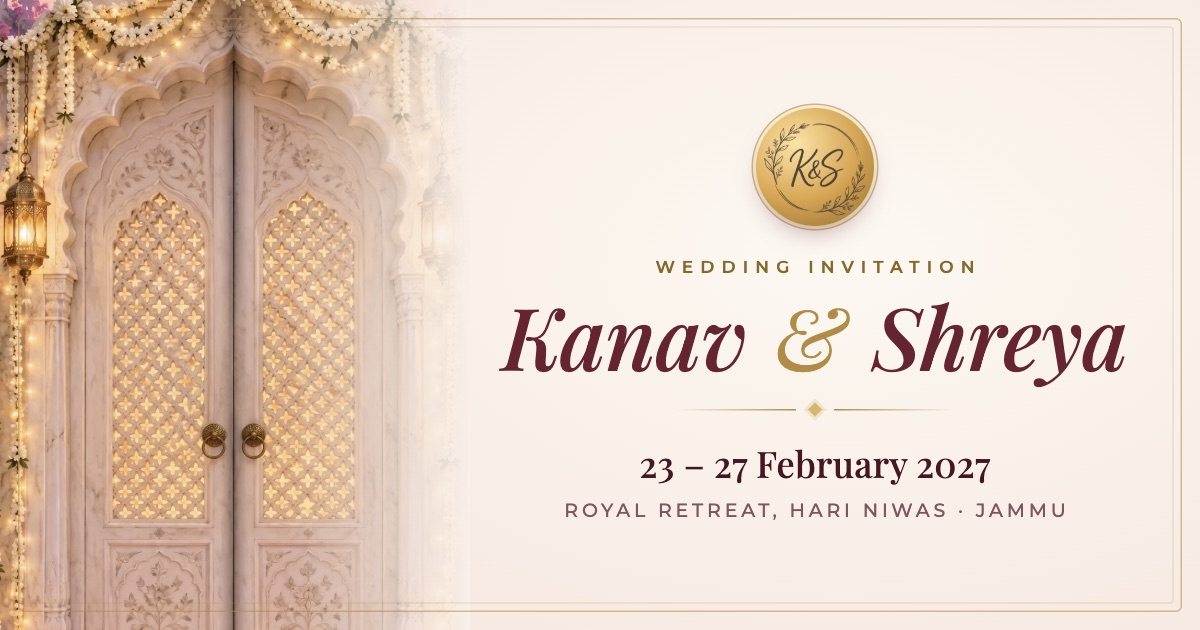
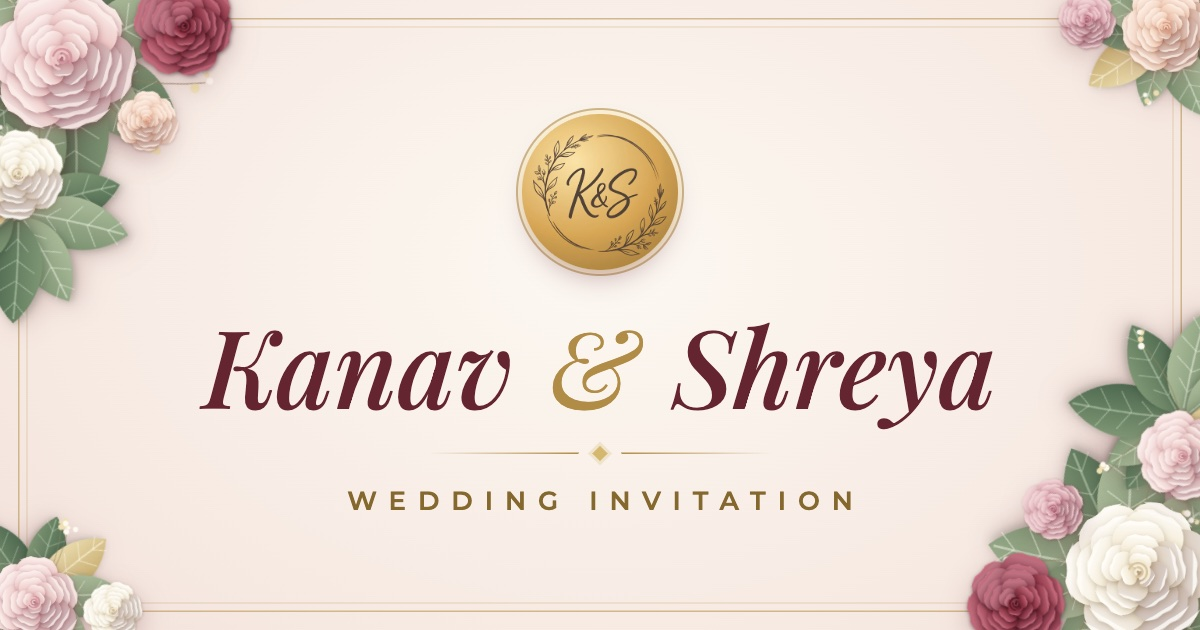
feat: floral share preview with seal and names only

diff --git a/kanav-shreya-ecards/shreyawedss/index.html b/kanav-shreya-ecards/shreyawedss/index.html
@@ -18,19 +18,19 @@
 <meta property="og:url" content="https://shreyawedss.kanavchopra.com/">
 <meta property="og:title" content="Kanav &amp; Shreya · Wedding Invitation">
 <meta property="og:description" content="Mata Ki Chowki, Shagun, Sufi Night &amp; Cocktail, Saant, Sehra Bandi and the Baraat &amp; Reception · 23–27 February 2027, Jammu. Tap to open your invitation.">
-<meta property="og:image" content="https://shreyawedss.kanavchopra.com/og.jpg">
-<meta property="og:image:secure_url" content="https://shreyawedss.kanavchopra.com/og.jpg">
+<meta property="og:image" content="https://shreyawedss.kanavchopra.com/og.jpg?v=3">
+<meta property="og:image:secure_url" content="https://shreyawedss.kanavchopra.com/og.jpg?v=3">
 <meta property="og:image:type" content="image/jpeg">
 <meta property="og:image:width" content="1200">
 <meta property="og:image:height" content="630">
-<meta property="og:image:alt" content="Kanav &amp; Shreya wedding invitation: carved palace doors and a gold K&amp;S seal, 23–27 February 2027, Royal Retreat, Hari Niwas, Jammu">
+<meta property="og:image:alt" content="Gold K&amp;S seal above the words Kanav &amp; Shreya, Wedding Invitation, framed by roses in each corner">
 <meta name="twitter:card" content="summary_large_image">
 <meta name="twitter:title" content="Kanav &amp; Shreya · Wedding Invitation">
 <meta name="twitter:description" content="Mata Ki Chowki, Shagun, Sufi Night &amp; Cocktail, Saant, Sehra Bandi and the Baraat &amp; Reception · 23–27 February 2027, Jammu. Tap to open your invitation.">
-<meta name="twitter:image" content="https://shreyawedss.kanavchopra.com/og.jpg">
-<meta name="twitter:image:alt" content="Kanav &amp; Shreya wedding invitation: carved palace doors and a gold K&amp;S seal, 23–27 February 2027, Royal Retreat, Hari Niwas, Jammu">
+<meta name="twitter:image" content="https://shreyawedss.kanavchopra.com/og.jpg?v=3">
+<meta name="twitter:image:alt" content="Gold K&amp;S seal above the words Kanav &amp; Shreya, Wedding Invitation, framed by roses in each corner">
 <script type="application/ld+json">
-{"@context":"https://schema.org","@type":"Event","name":"Wedding of Kanav Chopra & Shreya Gandral","description":"Mata Ki Chowki, Shagun, Sufi Night & Cocktail, Saant, Sehra Bandi and the Baraat & Reception.","startDate":"2027-02-23T17:30:00+05:30","endDate":"2027-02-27","eventStatus":"https://schema.org/EventScheduled","eventAttendanceMode":"https://schema.org/OfflineEventAttendanceMode","isAccessibleForFree":true,"url":"https://shreyawedss.kanavchopra.com/","image":["https://shreyawedss.kanavchopra.com/og.jpg"],"location":{"@type":"Place","name":"Royal Retreat, Hari Niwas","address":{"@type":"PostalAddress","addressLocality":"Jammu","addressRegion":"Jammu and Kashmir","addressCountry":"IN"}},"organizer":[{"@type":"Person","name":"Kanav Chopra"},{"@type":"Person","name":"Shreya Gandral"}]}
+{"@context":"https://schema.org","@type":"Event","name":"Wedding of Kanav Chopra & Shreya Gandral","description":"Mata Ki Chowki, Shagun, Sufi Night & Cocktail, Saant, Sehra Bandi and the Baraat & Reception.","startDate":"2027-02-23T17:30:00+05:30","endDate":"2027-02-27","eventStatus":"https://schema.org/EventScheduled","eventAttendanceMode":"https://schema.org/OfflineEventAttendanceMode","isAccessibleForFree":true,"url":"https://shreyawedss.kanavchopra.com/","image":["https://shreyawedss.kanavchopra.com/og.jpg?v=3"],"location":{"@type":"Place","name":"Royal Retreat, Hari Niwas","address":{"@type":"PostalAddress","addressLocality":"Jammu","addressRegion":"Jammu and Kashmir","addressCountry":"IN"}},"organizer":[{"@type":"Person","name":"Kanav Chopra"},{"@type":"Person","name":"Shreya Gandral"}]}
 </script>
 <script>document.documentElement.className='js lock';</script>
 <style>

diff --git a/kanav-shreya-ecards/shreyaweds/index.html b/kanav-shreya-ecards/shreyaweds/index.html
@@ -18,19 +18,19 @@
 <meta property="og:url" content="https://shreyaweds.kanavchopra.com/">
 <meta property="og:title" content="Kanav &amp; Shreya · Wedding Invitation">
 <meta property="og:description" content="Eight celebrations over five days, 23–27 February 2027, ending with the Baraat &amp; Reception at Royal Retreat, Hari Niwas, Jammu. Tap to open your invitation.">
-<meta property="og:image" content="https://shreyaweds.kanavchopra.com/og.jpg">
-<meta property="og:image:secure_url" content="https://shreyaweds.kanavchopra.com/og.jpg">
+<meta property="og:image" content="https://shreyaweds.kanavchopra.com/og.jpg?v=3">
+<meta property="og:image:secure_url" content="https://shreyaweds.kanavchopra.com/og.jpg?v=3">
 <meta property="og:image:type" content="image/jpeg">
 <meta property="og:image:width" content="1200">
 <meta property="og:image:height" content="630">
-<meta property="og:image:alt" content="Kanav &amp; Shreya wedding invitation: carved palace doors and a gold K&amp;S seal, 23–27 February 2027, Royal Retreat, Hari Niwas, Jammu">
+<meta property="og:image:alt" content="Gold K&amp;S seal above the words Kanav &amp; Shreya, Wedding Invitation, framed by roses in each corner">
 <meta name="twitter:card" content="summary_large_image">
 <meta name="twitter:title" content="Kanav &amp; Shreya · Wedding Invitation">
 <meta name="twitter:description" content="Eight celebrations over five days, 23–27 February 2027, ending with the Baraat &amp; Reception at Royal Retreat, Hari Niwas, Jammu. Tap to open your invitation.">
-<meta name="twitter:image" content="https://shreyaweds.kanavchopra.com/og.jpg">
-<meta name="twitter:image:alt" content="Kanav &amp; Shreya wedding invitation: carved palace doors and a gold K&amp;S seal, 23–27 February 2027, Royal Retreat, Hari Niwas, Jammu">
+<meta name="twitter:image" content="https://shreyaweds.kanavchopra.com/og.jpg?v=3">
+<meta name="twitter:image:alt" content="Gold K&amp;S seal above the words Kanav &amp; Shreya, Wedding Invitation, framed by roses in each corner">
 <script type="application/ld+json">
-{"@context":"https://schema.org","@type":"Event","name":"Wedding of Kanav Chopra & Shreya Gandral","description":"Eight celebrations over five days, from Mata Ki Chowki to the Baraat & Reception.","startDate":"2027-02-23T17:30:00+05:30","endDate":"2027-02-27","eventStatus":"https://schema.org/EventScheduled","eventAttendanceMode":"https://schema.org/OfflineEventAttendanceMode","isAccessibleForFree":true,"url":"https://shreyaweds.kanavchopra.com/","image":["https://shreyaweds.kanavchopra.com/og.jpg"],"location":{"@type":"Place","name":"Royal Retreat, Hari Niwas","address":{"@type":"PostalAddress","addressLocality":"Jammu","addressRegion":"Jammu and Kashmir","addressCountry":"IN"}},"organizer":[{"@type":"Person","name":"Kanav Chopra"},{"@type":"Person","name":"Shreya Gandral"}]}
+{"@context":"https://schema.org","@type":"Event","name":"Wedding of Kanav Chopra & Shreya Gandral","description":"Eight celebrations over five days, from Mata Ki Chowki to the Baraat & Reception.","startDate":"2027-02-23T17:30:00+05:30","endDate":"2027-02-27","eventStatus":"https://schema.org/EventScheduled","eventAttendanceMode":"https://schema.org/OfflineEventAttendanceMode","isAccessibleForFree":true,"url":"https://shreyaweds.kanavchopra.com/","image":["https://shreyaweds.kanavchopra.com/og.jpg?v=3"],"location":{"@type":"Place","name":"Royal Retreat, Hari Niwas","address":{"@type":"PostalAddress","addressLocality":"Jammu","addressRegion":"Jammu and Kashmir","addressCountry":"IN"}},"organizer":[{"@type":"Person","name":"Kanav Chopra"},{"@type":"Person","name":"Shreya Gandral"}]}
 </script>
 <script>document.documentElement.className='js lock';</script>
 <style>

diff --git a/kanav-shreya-ecards/shreyawedsss/index.html b/kanav-shreya-ecards/shreyawedsss/index.html
@@ -18,19 +18,19 @@
 <meta property="og:url" content="https://shreyawedsss.kanavchopra.com/">
 <meta property="og:title" content="Kanav &amp; Shreya · Wedding Invitation">
 <meta property="og:description" content="Mata Ki Chowki, Mehendi &amp; Sangeet, Saant, Sehra Bandi and the Baraat &amp; Reception · 23–27 February 2027, Jammu. Tap to open your invitation.">
-<meta property="og:image" content="https://shreyawedsss.kanavchopra.com/og.jpg">
-<meta property="og:image:secure_url" content="https://shreyawedsss.kanavchopra.com/og.jpg">
+<meta property="og:image" content="https://shreyawedsss.kanavchopra.com/og.jpg?v=3">
+<meta property="og:image:secure_url" content="https://shreyawedsss.kanavchopra.com/og.jpg?v=3">
 <meta property="og:image:type" content="image/jpeg">
 <meta property="og:image:width" content="1200">
 <meta property="og:image:height" content="630">
-<meta property="og:image:alt" content="Kanav &amp; Shreya wedding invitation: carved palace doors and a gold K&amp;S seal, 23–27 February 2027, Royal Retreat, Hari Niwas, Jammu">
+<meta property="og:image:alt" content="Gold K&amp;S seal above the words Kanav &amp; Shreya, Wedding Invitation, framed by roses in each corner">
 <meta name="twitter:card" content="summary_large_image">
 <meta name="twitter:title" content="Kanav &amp; Shreya · Wedding Invitation">
 <meta name="twitter:description" content="Mata Ki Chowki, Mehendi &amp; Sangeet, Saant, Sehra Bandi and the Baraat &amp; Reception · 23–27 February 2027, Jammu. Tap to open your invitation.">
-<meta name="twitter:image" content="https://shreyawedsss.kanavchopra.com/og.jpg">
-<meta name="twitter:image:alt" content="Kanav &amp; Shreya wedding invitation: carved palace doors and a gold K&amp;S seal, 23–27 February 2027, Royal Retreat, Hari Niwas, Jammu">
+<meta name="twitter:image" content="https://shreyawedsss.kanavchopra.com/og.jpg?v=3">
+<meta name="twitter:image:alt" content="Gold K&amp;S seal above the words Kanav &amp; Shreya, Wedding Invitation, framed by roses in each corner">
 <script type="application/ld+json">
-{"@context":"https://schema.org","@type":"Event","name":"Wedding of Kanav Chopra & Shreya Gandral","description":"Mata Ki Chowki, Mehendi & Sangeet, Saant, Sehra Bandi and the Baraat & Reception.","startDate":"2027-02-23T17:30:00+05:30","endDate":"2027-02-27","eventStatus":"https://schema.org/EventScheduled","eventAttendanceMode":"https://schema.org/OfflineEventAttendanceMode","isAccessibleForFree":true,"url":"https://shreyawedsss.kanavchopra.com/","image":["https://shreyawedsss.kanavchopra.com/og.jpg"],"location":{"@type":"Place","name":"Royal Retreat, Hari Niwas","address":{"@type":"PostalAddress","addressLocality":"Jammu","addressRegion":"Jammu and Kashmir","addressCountry":"IN"}},"organizer":[{"@type":"Person","name":"Kanav Chopra"},{"@type":"Person","name":"Shreya Gandral"}]}
+{"@context":"https://schema.org","@type":"Event","name":"Wedding of Kanav Chopra & Shreya Gandral","description":"Mata Ki Chowki, Mehendi & Sangeet, Saant, Sehra Bandi and the Baraat & Reception.","startDate":"2027-02-23T17:30:00+05:30","endDate":"2027-02-27","eventStatus":"https://schema.org/EventScheduled","eventAttendanceMode":"https://schema.org/OfflineEventAttendanceMode","isAccessibleForFree":true,"url":"https://shreyawedsss.kanavchopra.com/","image":["https://shreyawedsss.kanavchopra.com/og.jpg?v=3"],"location":{"@type":"Place","name":"Royal Retreat, Hari Niwas","address":{"@type":"PostalAddress","addressLocality":"Jammu","addressRegion":"Jammu and Kashmir","addressCountry":"IN"}},"organizer":[{"@type":"Person","name":"Kanav Chopra"},{"@type":"Person","name":"Shreya Gandral"}]}
 </script>
 <script>document.documentElement.className='js lock';</script>
 <style>
